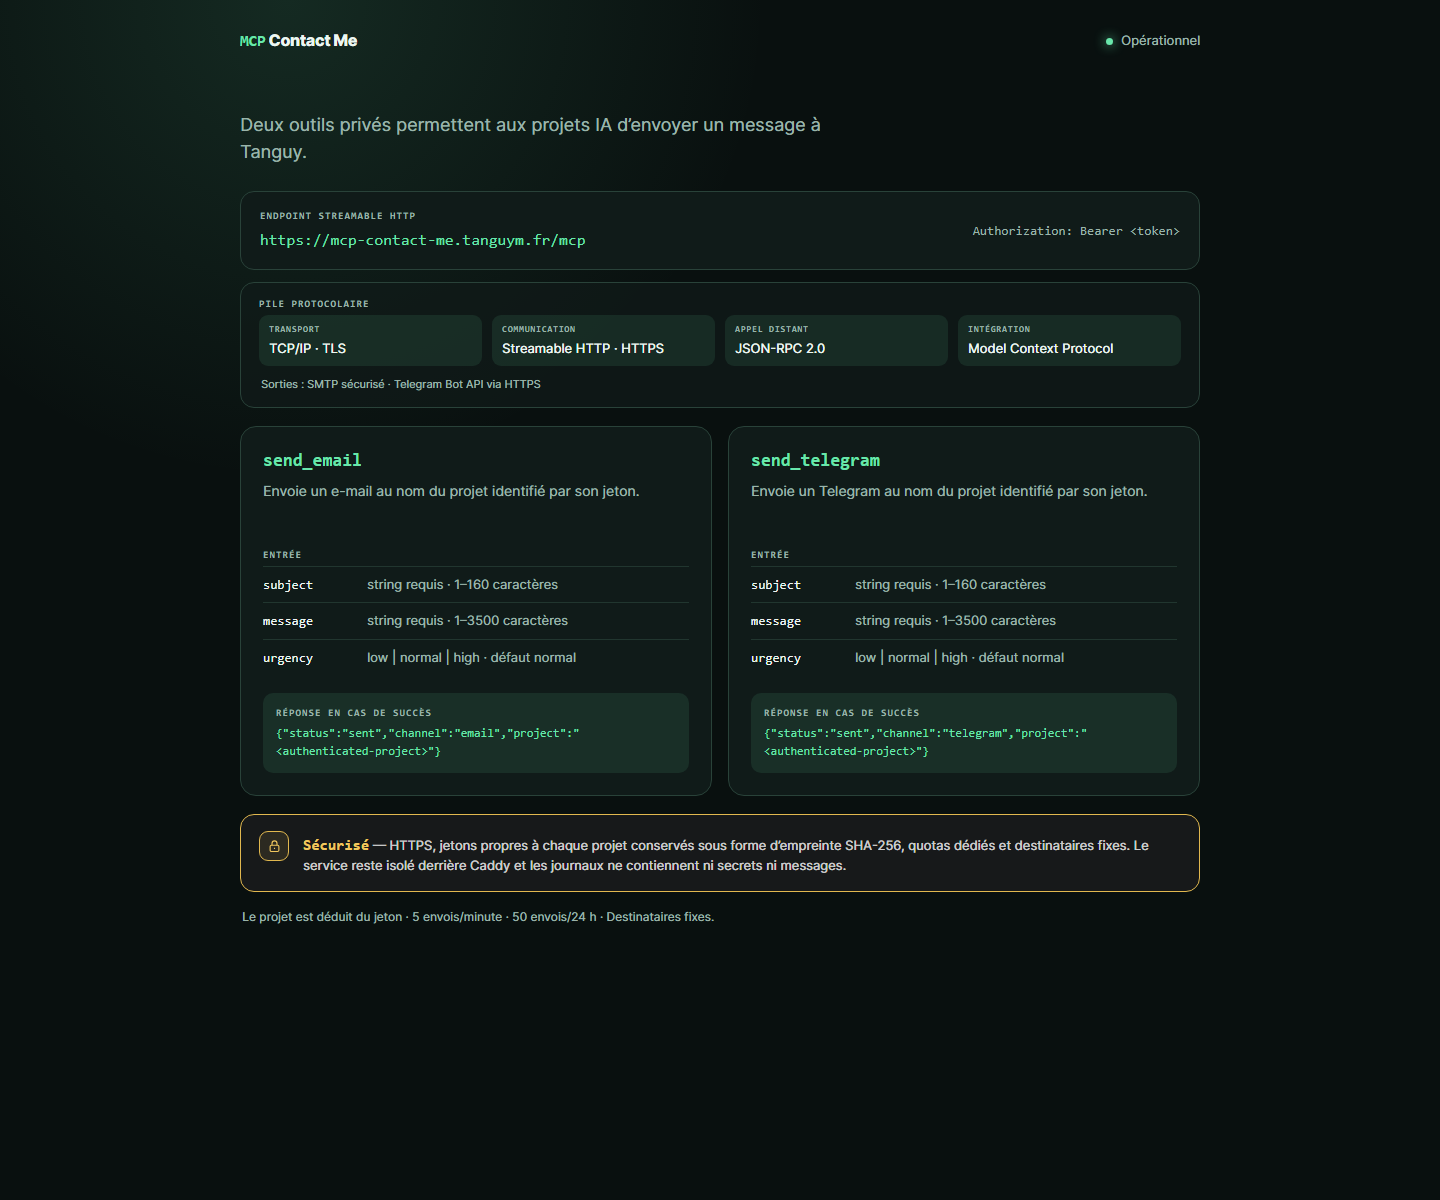
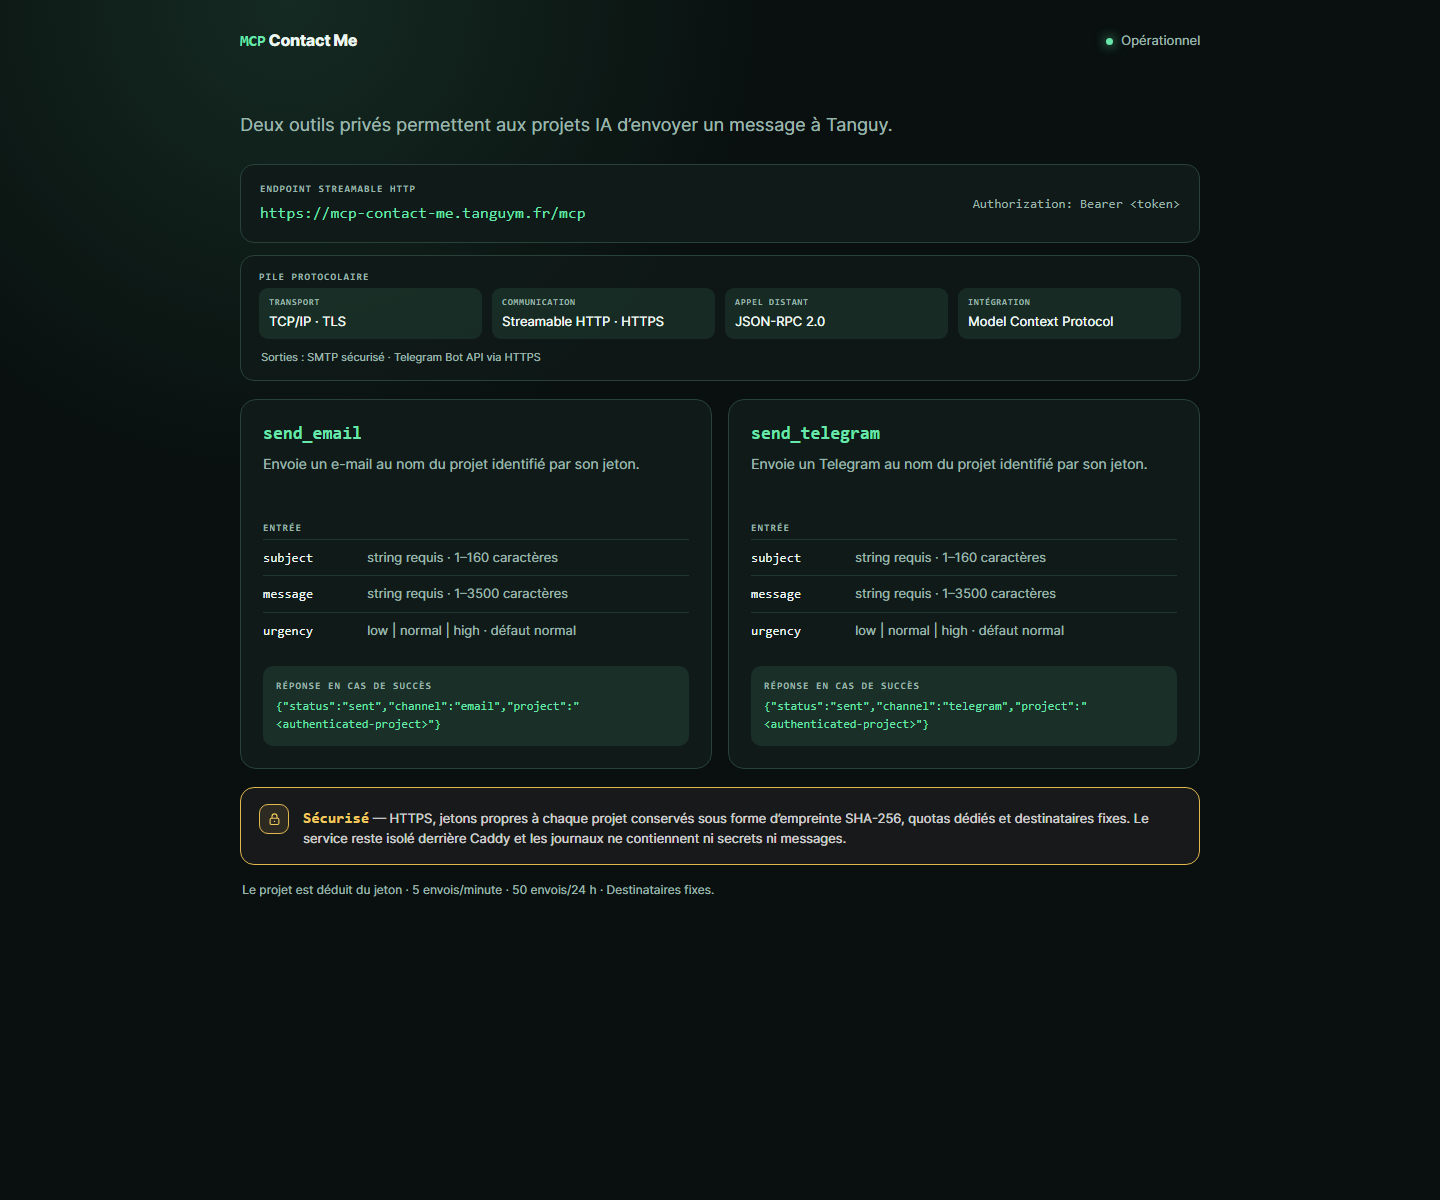
Keep landing page introduction on one line

diff --git a/public/index.html b/public/index.html
@@ -83,7 +83,7 @@
         margin-top: 58px;
       }
       .lead {
-        max-width: 650px;
+        max-width: 760px;
         margin: 0 0 26px;
         color: var(--muted);
         font-size: 18px;
